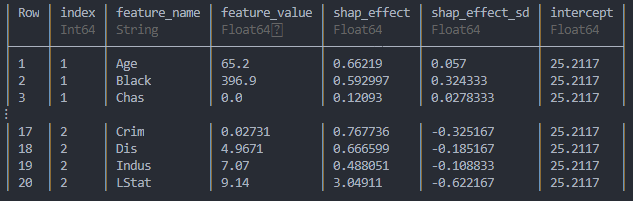
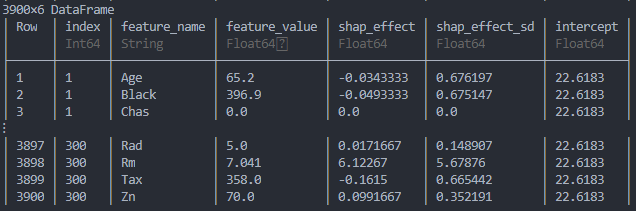
Update README output

diff --git a/README.md b/README.md
@@ -84,6 +84,6 @@ data_shap = ShapML.shap(explain = explain,
                         sample_size = sample_size
                         )
 
-first(data_shap, 20)
+show(data_shap, allcols = true)
 ```
 ![](./tools/shap_output.PNG)
